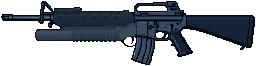
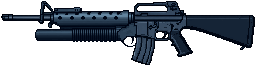
M16 M203 sprite variants: rifle mag x grenade tube
Master-made art: m16m203 / _nogren / _nomag / _nomag_nogren (nomag pair
bottom-padded 58->66 to keep the body top-aligned on swap). WeaponIcons
resolves on both axes (empty, secEmpty); wired through held-weapon and
ground-pile rendering, colonist bar, and the pocket-sand grid.

Changed region(s): [[0.125, 0.1212, 0.5312, 0.6364], [0.5312, 0.4242, 0.5625, 0.5152]]

diff --git a/Game/UI/WeaponIcons.cs b/Game/UI/WeaponIcons.cs
@@ -18,7 +18,7 @@ public static class WeaponIcons
     // itemPath (+ empty-mag state) -> asset file stem. null = no art (use the
     // vector glyph). Empty mag swaps to the "<gun>_nomag" sprite where one
     // exists (the M700 is an internal-mag bolt rifle, so it has none).
-    private static string? ResolveFile(string itemPath, bool empty, string? loadedAmmoPath)
+    private static string? ResolveFile(string itemPath, bool empty, string? loadedAmmoPath, bool secEmpty = false)
     {
         if (string.IsNullOrEmpty(itemPath)) return null;
         // ItemsByPath is keyed by FullPath ("Equipment/AssaultRifle"); match on
@@ -29,8 +29,14 @@ public static class WeaponIcons
             // RPG warhead colour = the loaded rocket type (empty = no rocket).
             "RPG7" => empty ? "rpg_empty" : RpgFile(loadedAmmoPath),
             "AssaultRifle" => empty ? "m16_nomag" : "m16",
-            // No no-mag edit yet — texture preview, always the full sprite.
-            "M16M203" => "m16m203",
+            // Two-axis variant: rifle mag x grenade tube (secEmpty = no grenade).
+            "M16M203" => (empty, secEmpty) switch
+            {
+                (false, false) => "m16m203",
+                (false, true) => "m16m203_nogren",
+                (true, false) => "m16m203_nomag",
+                (true, true) => "m16m203_nomag_nogren",
+            },
             "SubmachineGun" => empty ? "mp5_nomag" : "mp5",
             "BoltActionRifle" => "m700",
             "AKM" => empty ? "akm_nomag" : "akm",
@@ -115,9 +121,10 @@ public static class WeaponIcons
     }
 
     // Art texture for an item (empty = show the no-mag variant; loadedAmmoPath
-    // colours the RPG warhead), or null if it has no pixel art.
-    public static ImageTexture? Texture(string itemPath, bool empty = false, string? loadedAmmoPath = null)
-        => TextureByFile(ResolveFile(itemPath, empty, loadedAmmoPath));
+    // colours the RPG warhead; secEmpty = empty grenade tube), or null if it
+    // has no pixel art.
+    public static ImageTexture? Texture(string itemPath, bool empty = false, string? loadedAmmoPath = null, bool secEmpty = false)
+        => TextureByFile(ResolveFile(itemPath, empty, loadedAmmoPath, secEmpty));
 
     // How big a DROPPED weapon draws relative to a tile (1.0 = fills the tile).
     // Long guns fill it; small arms scale down so a pistol doesn't read as
@@ -133,8 +140,8 @@ public static class WeaponIcons
     }
 
     // Drop-shadow silhouette matching Texture(...).
-    public static ImageTexture? Silhouette(string itemPath, bool empty = false, string? loadedAmmoPath = null)
-        => SilhouetteByFile(ResolveFile(itemPath, empty, loadedAmmoPath));
+    public static ImageTexture? Silhouette(string itemPath, bool empty = false, string? loadedAmmoPath = null, bool secEmpty = false)
+        => SilhouetteByFile(ResolveFile(itemPath, empty, loadedAmmoPath, secEmpty));
 
     private static ImageTexture? UnarmedTexture() => TextureByFile("fist");
     private static ImageTexture? UnarmedSilhouette() => SilhouetteByFile("fist");
@@ -149,10 +156,10 @@ public static class WeaponIcons
     // An icon control that fills its parent rect (inset by pad): a TextureRect
     // when the item has art (or the fist for unarmed), otherwise the vector
     // WeaponGlyph. shadow lays a fat soft dark drop shadow behind the sprite.
-    public static Control Make(string itemPath, WeaponGlyph.Kind kind, int pad = 4, bool shadow = false, bool empty = false, string? loadedAmmoPath = null)
+    public static Control Make(string itemPath, WeaponGlyph.Kind kind, int pad = 4, bool shadow = false, bool empty = false, string? loadedAmmoPath = null, bool secEmpty = false)
     {
-        var tex = Texture(itemPath, empty, loadedAmmoPath);
-        var sil = shadow ? Silhouette(itemPath, empty, loadedAmmoPath) : null;
+        var tex = Texture(itemPath, empty, loadedAmmoPath, secEmpty);
+        var sil = shadow ? Silhouette(itemPath, empty, loadedAmmoPath, secEmpty) : null;
         if (tex is null && kind == WeaponGlyph.Kind.Unarmed)
         {
             tex = UnarmedTexture();

diff --git a/Game/Render/WorldRenderer.cs b/Game/Render/WorldRenderer.cs
@@ -1236,9 +1236,11 @@ public partial class WorldRenderer : Node2D
         var (path, kind) = StruggleGame.Game.UI.WeaponIcons.PickEquipped(d);
         if (kind != StruggleGame.Game.UI.WeaponGlyph.Kind.Ranged) return;
         // Empty mag (reloading / out of ammo) shows the no-mag sprite; the
-        // loaded ammo colours an RPG's warhead.
+        // loaded ammo colours an RPG's warhead; an empty grenade tube shows
+        // the no-grenade variant (M203).
         bool empty = d.RangedMag == 0;
-        var tex = StruggleGame.Game.UI.WeaponIcons.Texture(path, empty, d.LoadedAmmoPath);
+        bool secEmpty = d.HasSecondary && d.SecMag <= 0;
+        var tex = StruggleGame.Game.UI.WeaponIcons.Texture(path, empty, d.LoadedAmmoPath, secEmpty);
         if (tex is null) return;
 
         float aspect = (float)tex.GetWidth() / tex.GetHeight();
@@ -1264,7 +1266,7 @@ public partial class WorldRenderer : Node2D
         // Fat soft drop shadow: dark silhouette copies offset down-right in
         // screen space, scaled to the gun length so it hugs the gun (same
         // proportions as the UI icon, not a floaty fixed gap).
-        var sil = StruggleGame.Game.UI.WeaponIcons.Silhouette(path, empty, d.LoadedAmmoPath);
+        var sil = StruggleGame.Game.UI.WeaponIcons.Silhouette(path, empty, d.LoadedAmmoPath, secEmpty);
         if (sil is not null)
         {
             var shadow = new Color(0f, 0f, 0f, 0.16f);
@@ -1711,10 +1713,11 @@ public partial class WorldRenderer : Node2D
         // random tilt (kept upright, never flipped over) so a scatter of dropped
         // guns looks natural.
         bool empty = p.MagCount <= 0;
-        var icon = StruggleGame.Game.UI.WeaponIcons.Texture(p.ItemPath, empty, p.LoadedAmmoPath);
+        bool secEmpty = p.SecMagCount <= 0;
+        var icon = StruggleGame.Game.UI.WeaponIcons.Texture(p.ItemPath, empty, p.LoadedAmmoPath, secEmpty);
         if (icon is not null)
         {
-            var sil = StruggleGame.Game.UI.WeaponIcons.Silhouette(p.ItemPath, empty, p.LoadedAmmoPath);
+            var sil = StruggleGame.Game.UI.WeaponIcons.Silhouette(p.ItemPath, empty, p.LoadedAmmoPath, secEmpty);
             DrawItemIcon(icon, sil, center, DroppedTilt(p.EntityId), StruggleGame.Game.UI.WeaponIcons.DropScale(p.ItemPath));
             return;
         }

diff --git a/Game/UI/DraftActionBar.cs b/Game/UI/DraftActionBar.cs
@@ -583,7 +583,7 @@ public partial class DraftActionBar : CanvasLayer
 
     // One weapon square: path, icon kind, active flag. Path "" = Unarmed,
     // a null entry = an empty square.
-    private readonly record struct WpnSeg(string Path, WeaponGlyph.Kind Kind, bool Active, bool Empty, string? AmmoPath);
+    private readonly record struct WpnSeg(string Path, WeaponGlyph.Kind Kind, bool Active, bool Empty, string? AmmoPath, bool SecEmpty = false);
 
     // Up to 3 carried weapons (equipped + pocketed, de-duped) fill the first
     // three squares; the 4th is always Unarmed. Empty squares pad the grid to
@@ -595,6 +595,7 @@ public partial class DraftActionBar : CanvasLayer
         bool anyEquipped = false;
         int pawnMag = p.RangedMag;          // local copies — `in p` can't be captured
         string? pawnAmmo = p.LoadedAmmoPath;
+        bool pawnSecEmpty = p.HasSecondary && p.SecMag <= 0;
 
         void Consider(string path, bool equipped)
         {
@@ -606,7 +607,9 @@ public partial class DraftActionBar : CanvasLayer
             // empty, and its loaded ammo (RPG warhead colour).
             bool empty = equipped && def.IsRangedWeapon && pawnMag == 0;
             string? ammo = equipped && def.IsRangedWeapon ? pawnAmmo : null;
-            weapons.Add(new WpnSeg(path, def.IsRangedWeapon ? WeaponGlyph.Kind.Ranged : WeaponGlyph.Kind.Melee, equipped, empty, ammo));
+            // Empty grenade tube (M203) swaps the active sprite to no-grenade.
+            bool secEmpty = equipped && def.RangedSecondary is not null && pawnSecEmpty;
+            weapons.Add(new WpnSeg(path, def.IsRangedWeapon ? WeaponGlyph.Kind.Ranged : WeaponGlyph.Kind.Melee, equipped, empty, ammo, secEmpty));
         }
 
         foreach (var eq in p.Equipped) Consider(eq.ItemPath, equipped: true);
@@ -692,7 +695,7 @@ public partial class DraftActionBar : CanvasLayer
 
         // Pixel-art icon if the item has one (assets/items/<key>.png);
         // otherwise the vector WeaponGlyph for that weapon kind.
-        btn.AddChild(WeaponIcons.Make(s.Path, s.Kind, empty: s.Empty, loadedAmmoPath: s.AmmoPath));
+        btn.AddChild(WeaponIcons.Make(s.Path, s.Kind, empty: s.Empty, loadedAmmoPath: s.AmmoPath, secEmpty: s.SecEmpty));
 
         string path = s.Path;
         btn.Pressed += () =>

diff --git a/Game/UI/ColonistBar.cs b/Game/UI/ColonistBar.cs
@@ -510,7 +510,9 @@ public partial class ColonistBar : CanvasLayer
         foreach (var ch in holder.GetChildren()) { holder.RemoveChild(ch); ch.QueueFree(); }
         var (path, kind) = WeaponIcons.PickEquipped(d);
         bool empty = kind == WeaponGlyph.Kind.Ranged && d.RangedMag == 0;
-        holder.AddChild(WeaponIcons.Make(path, kind, pad: 2, shadow: true, empty: empty, loadedAmmoPath: d.LoadedAmmoPath));
+        // Empty grenade tube swaps to the no-grenade variant (M203).
+        bool secEmpty = d.HasSecondary && d.SecMag <= 0;
+        holder.AddChild(WeaponIcons.Make(path, kind, pad: 2, shadow: true, empty: empty, loadedAmmoPath: d.LoadedAmmoPath, secEmpty: secEmpty));
     }
 
     private void Reposition()
